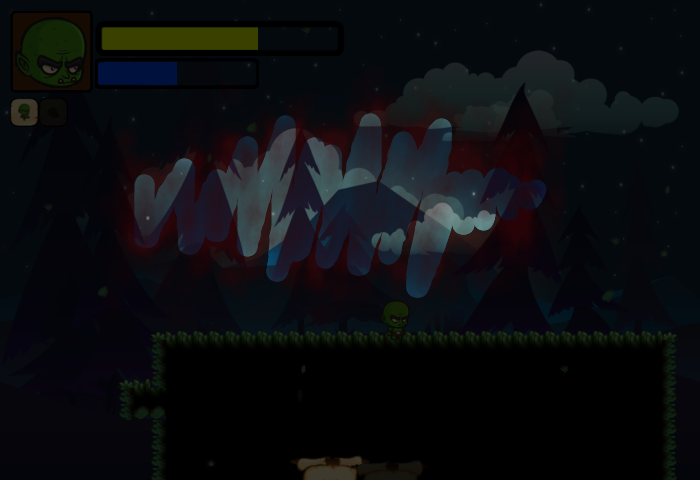
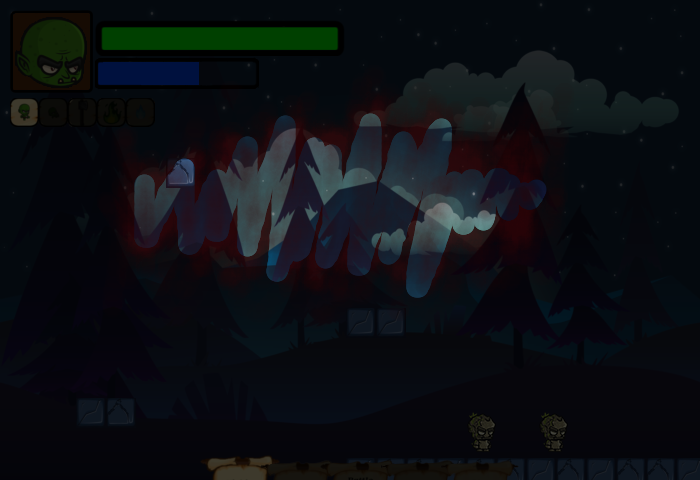
Adding some of the player attacks

diff --git a/data/gameplay/player/__init__.py b/data/gameplay/player/__init__.py
@@ -26,6 +26,7 @@ class Player(object):
         self.hurtten = False
         self.attack = False
         self.bottomColision = False
+        self.firing = False
 
         self.vertical_momentum = 0
         self.air_timer = 0
@@ -34,6 +35,9 @@ class Player(object):
         self.nivel = nivel
         self.impactDelay = 0
         self.slashingControl = 0
+        self.count = 0
+        self.fireArray = []
+        self.fire = Fire(self.screen, 'greenfire', self.player_rect)
         self.enimyCollision = False
         self.enimyType = ''         
 
@@ -68,8 +72,10 @@ class Player(object):
             self.hurt()
 
         if self.attack :
+            # self.firing = True
             self.determinateAttack()
-            
+        
+        self.fireControl()
 
         if((not self.moving_left)and(not self.moving_right)and not self.attack):
             self.idle()
@@ -90,14 +96,18 @@ class Player(object):
             self.vertical_momentum += 5
         else:
             self.air_timer += 1
+
         self.screen.blit(self.player_img,(self.player_rect.x-scroll[0],self.player_rect.y-scroll[1]))
 
+    def fireControl(self):
+        if self.firing:
+            [fire.draw() for fire in self.fireArray]
 
     def settingPlayer(self, tile_rects, scroll, allEnimysRectsAndType, inUse):
         self.skillsInUse = inUse
         # print(self.skillsInUse)
         player_movement = [0,0]
-        self.determinateMove()
+        self.determinateMove(scroll)
         self.controlPlayerScreenMove()
         self.playerMove(tile_rects, player_movement, scroll)
 
@@ -147,7 +157,7 @@ class Player(object):
             else:
                 self.enimyCollision = False
 
-    def determinateMove(self):
+    def determinateMove(self, scroll):
         key_press = pygame.key.get_pressed()
         if(key_press[K_RIGHT]):
             self.move_direction = 'right'
@@ -190,10 +200,14 @@ class Player(object):
                 self.jumping = True
         ## button for to attack
         if key_press[K_q]:
+            if(self.skillsInUse == 'bluefire' or self.skillsInUse == 'greenfire'):
+                self.fireArray.append(Fire(self.screen, self.skillsInUse,(self.player_rect.x-scroll[0], self.player_rect.y-scroll[1])))
+                self.firing = True
             self.attack = True
         else:
             self.slashingControl = 0
             self.attack = False
+        
 
     def walk(self):
         self.state = 'Walking'
@@ -305,8 +319,20 @@ class Player(object):
 
     def throwing(self, type):
         pass
-    def numberSprite(self):
-        if(self.state=='Walking'):
-            return 23
-        elif(self.state=='Idle'):
-            return 17
+    # def numberSprite(self):
+    #     if(self.state=='Walking'):
+    #         return 23
+    #     elif(self.state=='Idle'):
+    #         return 17
+
+class Fire(object):
+    def __init__(self, screen, fireType, pos):
+        self.screen = screen
+        self.img = pygame.image.load("resources/image/Golem/fire/"+fireType+".png")
+        self.x = pos[0]+25
+        self.y = pos[1]+15
+
+
+    def draw(self):
+        self.screen.blit(self.img, (self.x, self.y))
+        self.x += 10
